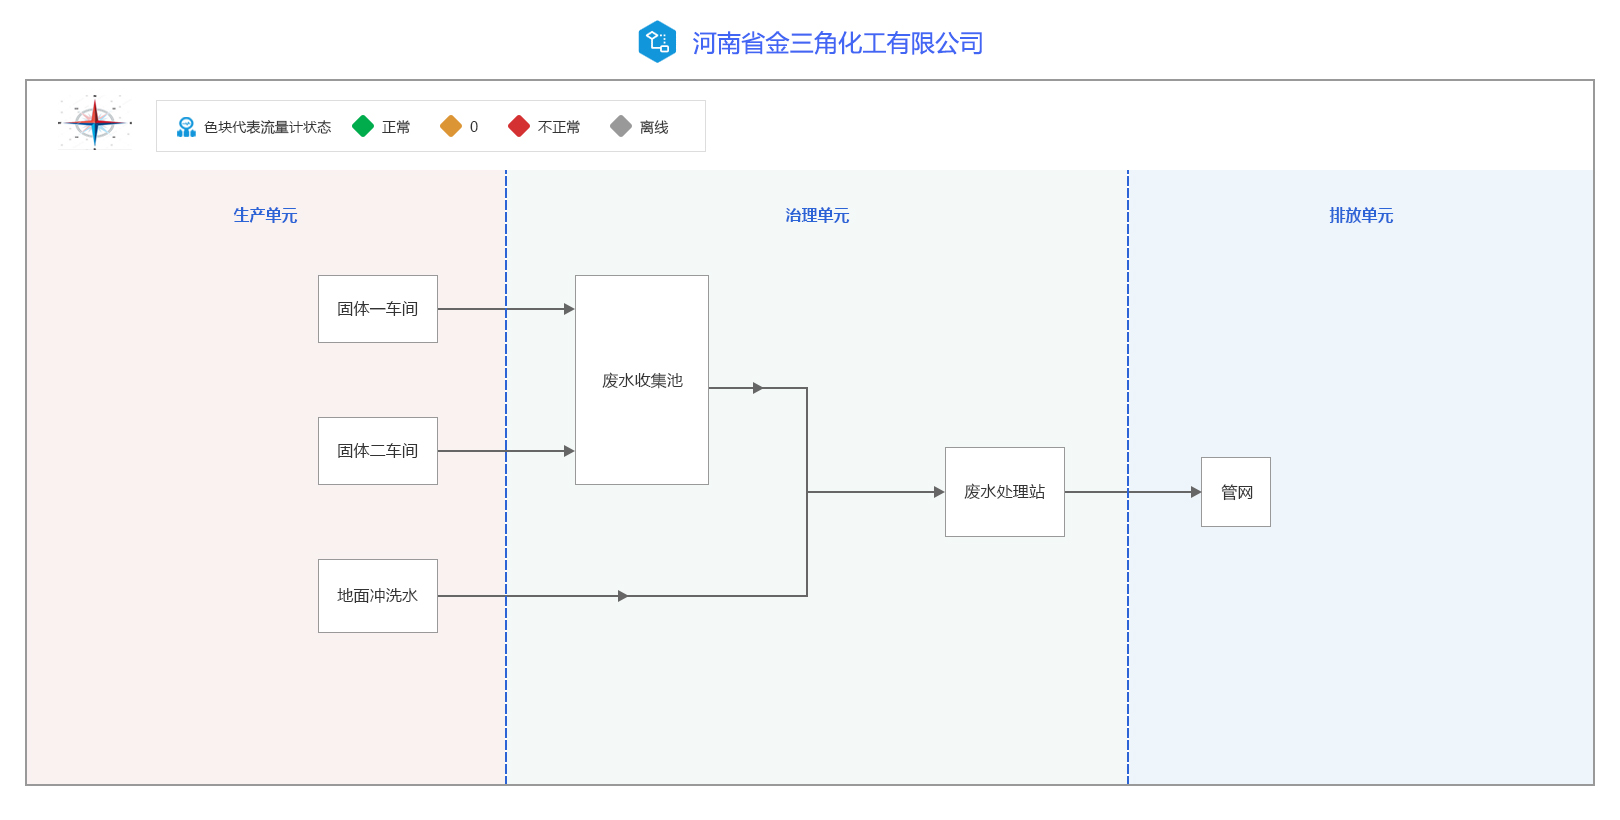
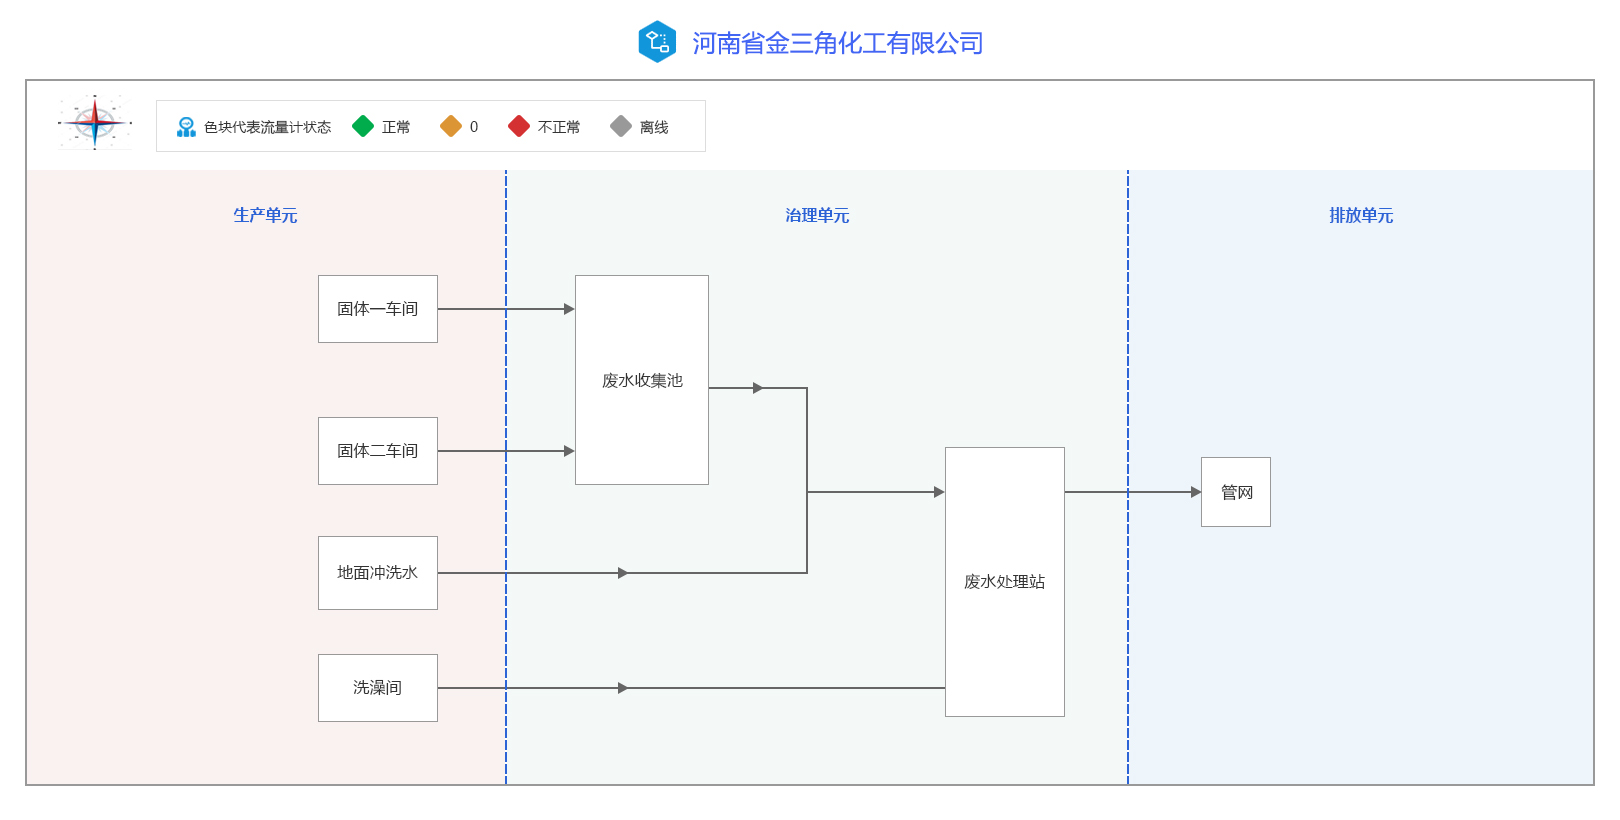
修改几个企业的逻辑图

diff --git a/css/map.css b/css/map.css
@@ -1252,6 +1252,19 @@
     left: 90%;
 
 }
+.map #ljt li:nth-child(20){
+
+    top: 31.5%;
+    left: 5.5%;
+
+
+}
+.map #ljt li:nth-child(21){
+
+    left: 11.2%;
+    top: 47.5%;
+
+}
 
 /*六通单元信息*/
 .map #dy li:nth-child(1){
@@ -1689,106 +1702,114 @@
 
 .map #hxl li:nth-child(1){
 
-    top: 21.5%;
+    top: 19.5%;
     left: 12.2%;
 
 }
 .map #hxl li:nth-child(2){
 
-    top: 29%;
+    top: 26.5%;
     left: 29.5%;
 
 }
 .map #hxl li:nth-child(3){
 
-    top: 40.5%;
+    top: 37%;
     left: 12.2%;
 }
 
 
 .map #hxl li:nth-child(4){
-    top: 40.5%;
+    top: 37%;
     left: 30%;
 
 }
 .map #hxl li:nth-child(5){
 
-    top: 40.5%;
+    top: 37%;
     left: 68.5%;
 
 }
 .map #hxl li:nth-child(6){
 
-    top: 21.5%;
+    top: 19.5%;
     left: 27%;
 
 }
 .map #hxl li:nth-child(7){
 
-    top: 35%;
+    top: 32%;
     left: 29.5%;
 
 }
 .map #hxl li:nth-child(8){
 
-    top: 76.8%;
+    top: 70.2%;
     left: 24.5%;
 
 }
 .map #hxl li:nth-child(9){
 
-    top: 40.5%;
+    top: 37%;
     left: 26.4%;
 
 }
 .map #hxl li:nth-child(10){
 
-    top: 57.5%;
+    top: 52.7%;
     left: 24.5%;
 
 }
 .map #hxl li:nth-child(11){
 
-    top: 49%;
+    top: 45%;
     left: 26.3%;
 
 }
 .map #hxl li:nth-child(12){
 
-    top: 67.5%;
+    top: 61.7%;
     left: 48.5%;
 
 }
 .map #hxl li:nth-child(13){
 
-    top: 67.5%;
+    top: 61.7%;
     left: 24.5%;
 
 }
 .map #hxl li:nth-child(14){
 
-    top: 86%;
+    top: 78.9%;
     left: 24.5%;
 
 }
 .map #hxl li:nth-child(15){
 
-    top: 40.5%;
+    top: 37%;
     left: 44%;
 
 }
 .map #hxl li:nth-child(16){
 
-    top: 40.5%;
+    top: 37%;
     left: 54.5%;
 
 }
 .map #hxl li:nth-child(17){
 
-    top: 67.5%;
+    top: 61.7%;
     left: 87.4%;
 }
+.map #hxl li:nth-child(18){
 
+    top: 87.3%;
+    left: 12.1%;
+}
+.map #hxl li:nth-child(19){
+    top: 87.3%;
+    left: 24.5%;
+}
 /*华幸生物摄像头*/
 
 .map ul.hx li:nth-child(20){
@@ -2787,25 +2808,33 @@
 /*巨人逻辑图*/
 
 .map #jrl li:nth-child(1){
-    top: 50%;
-    left: 57.1%;
+    top: 66%;
+    left: 56%;
 
 }
 .map #jrl li:nth-child(2){
-    top: 50%;
-    left: 59.8%;    
+    top: 66%;
+    left: 59.8%; 
 }
 .map #jrl li:nth-child(3){
-    top: 43%;
+    top: 59%;
     left: 23%;
 }
 .map #jrl li:nth-child(4){
-	top: 50%;
-    left: 41%;
+    top: 66%;
+    left: 39.8%;
 }
 .map #jrl li:nth-child(5){
-    top: 50%;
-    left: 69.2%;
+    top: 66%;
+    left: 69.1%;
+}
+.map #jrl li:nth-child(6){
+    top: 66%;
+    left: 47.2%;
+}
+.map #jrl li:nth-child(7){
+    top: 73%;
+    left: 23%;
 }
 
 /*巨人工贸摄像头*/
@@ -2941,15 +2970,19 @@
 }
 .map #jsjl li:nth-child(3){
     left: 27.5%;
-    top: 50.5%; 
+    top: 51%; 
 }
 
 .map #jsjl li:nth-child(4){
     left: 27.5%;
-    top: 68.5%; 
+    top: 66%;
 }
 .map #jsjl li:nth-child(5){
     left: 66.5%;
     top: 56%;
+}
+.map #jsjl li:nth-child(6){
+    top: 80%;
+    left: 56.5%;
 }
 

diff --git a/js/layui.js b/js/layui.js
@@ -3,8 +3,8 @@
 
 
 
-window.httpUrl = 'http://116.255.130.173:8080/poms/';
-// window.httpUrl = 'http://172.16.23.11:8081/';
+// window.httpUrl = 'http://116.255.130.173:8080/poms/';
+window.httpUrl = 'http://172.16.23.11:8081/';
 layui.use('element', function () {
     var token = localStorage.getItem('token');
     var $ = layui.$;

diff --git a/iframe/city/L0373032600008.html b/iframe/city/L0373032600008.html
@@ -108,6 +108,8 @@
       <li nm="e20108"></li>
       <li nm="e20109"></li>
       <li nm="e20110"></li>
+      <li nm="e10110"></li>
+      <li nm="e20111"></li>
     </ul>
     <!--单元-->
     <ul id="dy" class="dy" class="isActive">

diff --git a/iframe/city/L0373032600018.html b/iframe/city/L0373032600018.html
@@ -79,7 +79,7 @@
             <li nm="e20102"></li>
             <li nm="e20103"></li>
             <li nm="e20104"></li>
-
+            <li nm="e10102"></li>
             <!--<li nm="e20111"></li>-->
 
         </ul>

diff --git a/iframe/city/L0373032600016.html b/iframe/city/L0373032600016.html
@@ -85,7 +85,8 @@
       <li nm="e20101"></li>
       <li nm="e20102"></li>
       <li nm="e20104"></li>
-
+      <li nm="e10102"></li>
+      <li nm="e20105"></li>
       <!--<li nm="e20111"></li>-->
 
     </ul>

diff --git a/iframe/city/L0373032600011.html b/iframe/city/L0373032600011.html
@@ -99,6 +99,8 @@
       <li nm="e20110"></li>
       <li nm="e20111"></li>
       <li nm="e20112"></li>
+      <li nm="e10106"></li>
+      <li nm="e20113"></li>
 
       <!--<li nm="e20111"></li>-->
 
